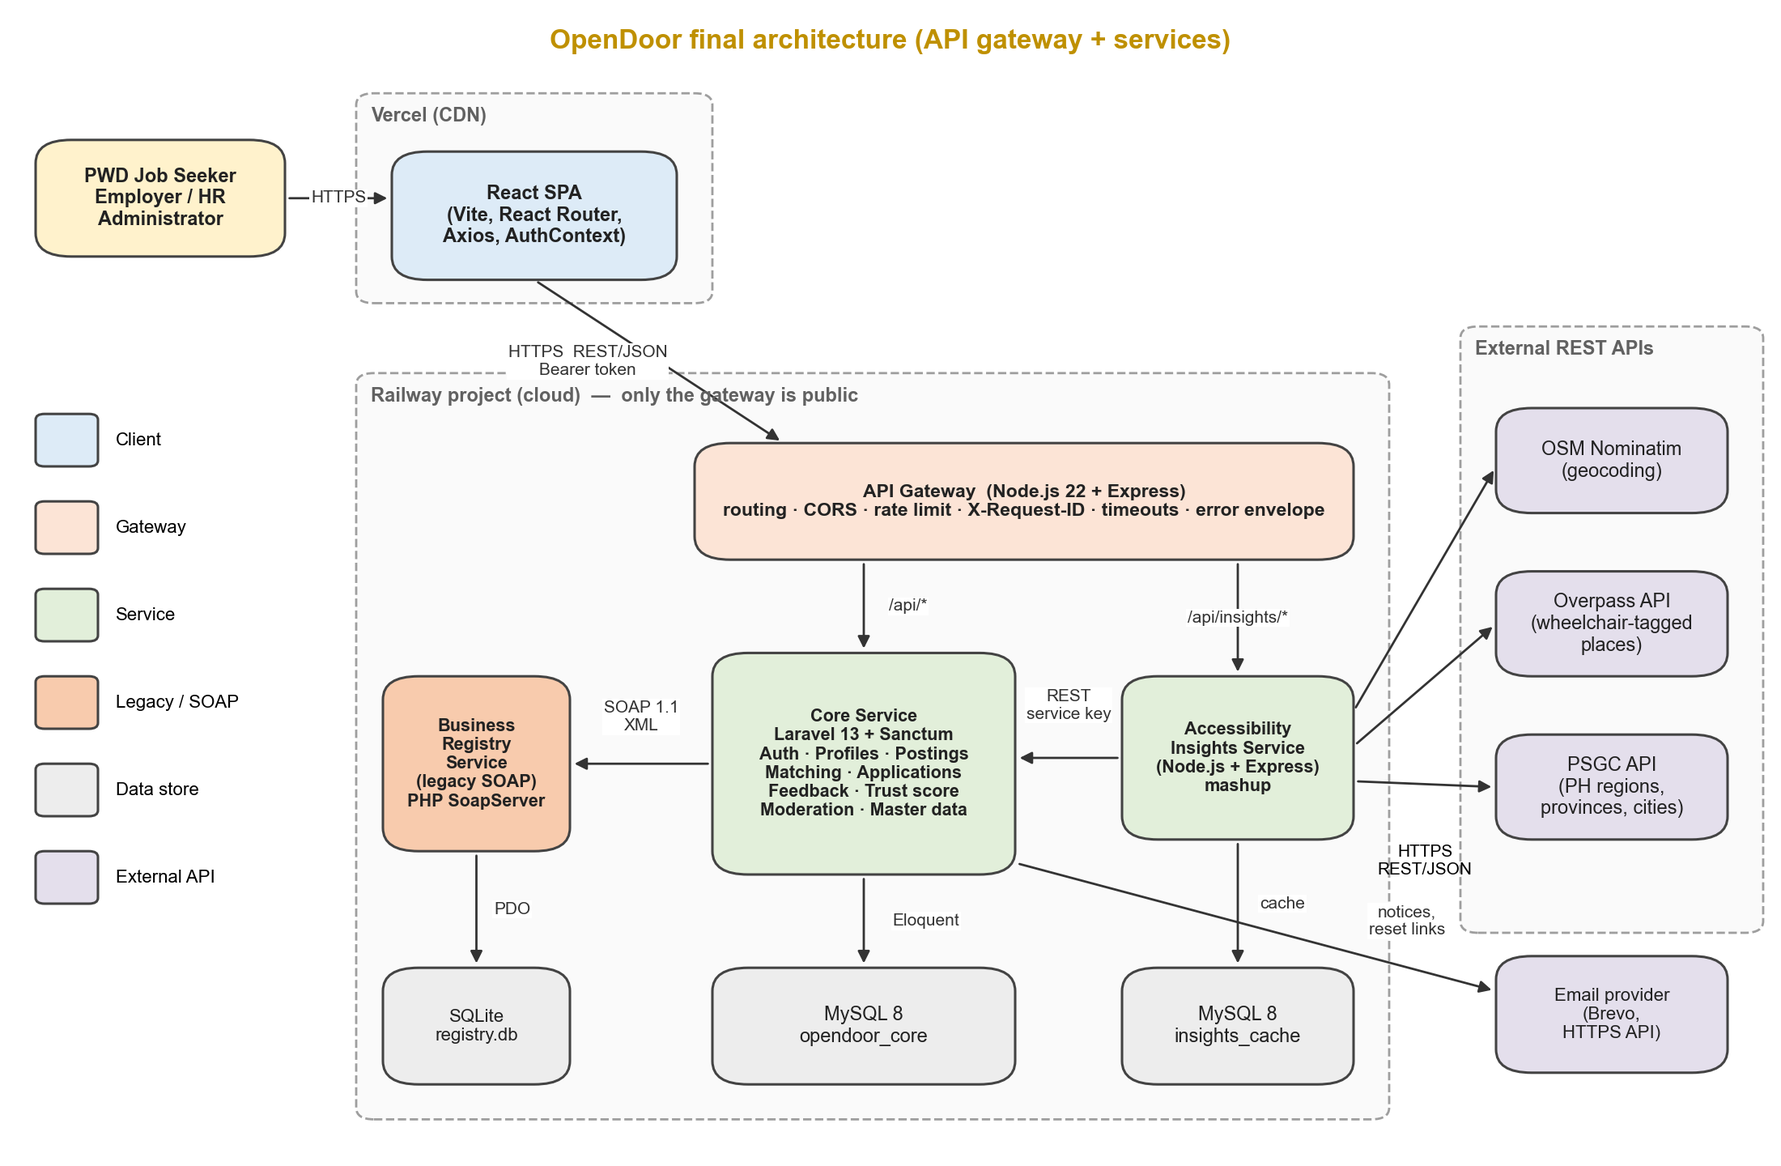
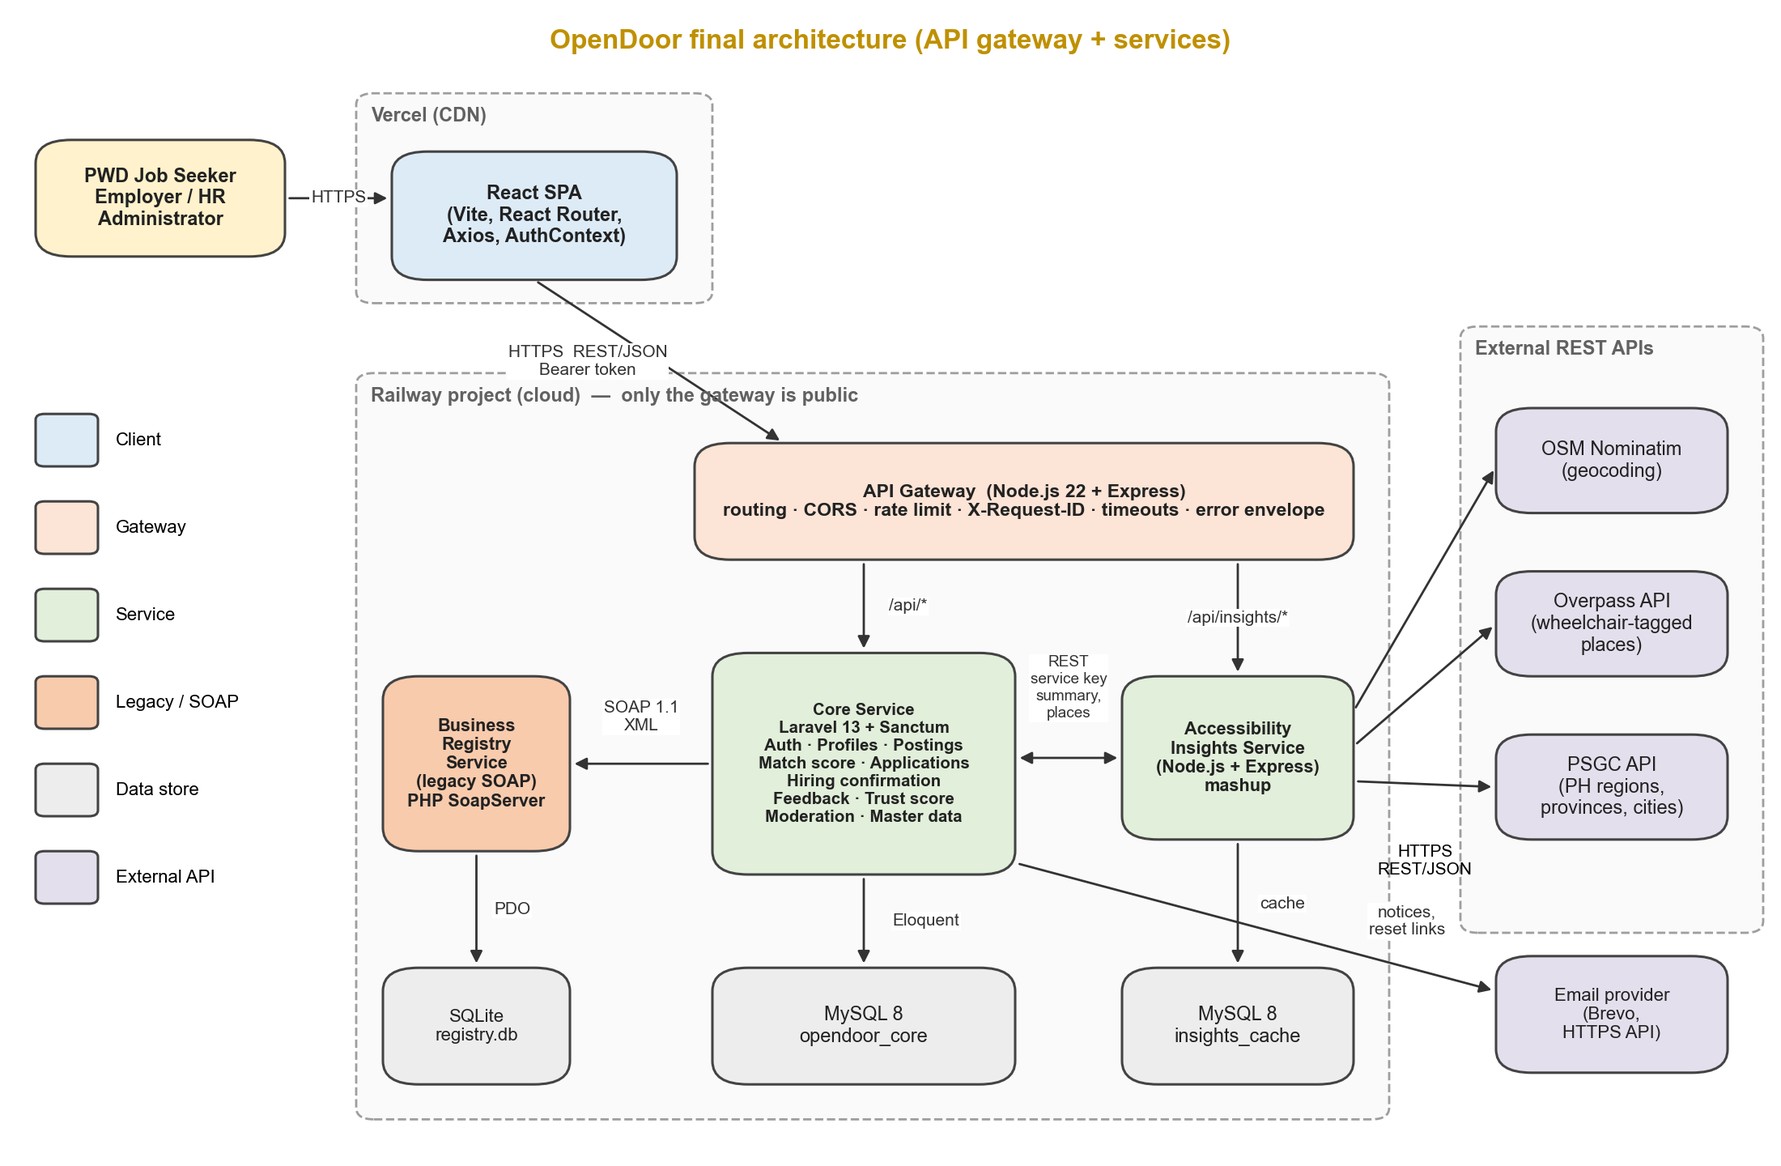
wip(sia): diagrams for the match score, hiring confirmation and the new tables
fig2: Core ↔ Insights both ways (summary, places); fig3: match score and the profile and
résumé checks on apply; new fig7: hire reported and confirmed, day-30 rating and trust score;
fig6 ERD: skills, hiring_reports, hiring_report_events and the new profile, posting and
application columns. Sequence notes move left of the lifeline when they would not fit.

Changed region(s): [[0.4327, 0.5938, 0.5564, 0.7188], [0.5873, 0.5625, 0.6182, 0.625]]

diff --git a/docs/diagrams/build.js b/docs/diagrams/build.js
@@ -532,7 +532,7 @@ C.push(P("A second transformation happens inside the Core Service: the **matchin
 C.push(H1("5. Integration Flow"));
 C.push(H2("5.1 Core Transaction Sequence"));
 C.push(...fig("fig3_sequence_match_apply.png", 2200, 1520, "Sequence – a candidate opens a matched job, receives the Accessibility Snapshot and applies"));
-C.push(...fig("fig7_sequence_hire_feedback.png", 2200, 1640, "Sequence – the employer reports a hire, the candidate confirms it, and from day 30 after the start date the candidate's ratings update the trust score"));
+C.push(...fig("fig7_sequence_hire_feedback.png", 2200, 1639, "Sequence – the employer reports a hire, the candidate confirms it, and from day 30 after the start date the candidate's ratings update the trust score"));
 C.push(...fig("fig4_sequence_verify.png", 2200, 1240, "Sequence – an administrator verifies an employer through the legacy SOAP Business Registry"));
 C.push(H2("5.2 Service-to-Service Integrations"));
 C.push(...table(["Source", "Destination", "Trigger / Endpoint", "Data Exchanged", "Expected Result"], [
@@ -1126,7 +1126,7 @@ C.push(...table(["Table", "Key Fields", "Expiry / Notes"], [
   ["registrations (registry.db)", "registration_number (PK), registry_type, registered_name, status, date_registered", "Simulated DTI/SEC records seeded by `seed.php`: the two demo employers and three other businesses (ACTIVE), two EXPIRED and two CANCELLED samples"],
 ], [2300, 4900, 2880], { size: 16 }));
 C.push(P("**Entity-relationship diagram** of the Core Service database, drawn from the Laravel migrations in `services/core-api/database/migrations` (Laravel's own token, queue, cache and session tables are left out). Further screens of every role are in the separate UI reference (`docs/ui-reference/OpenDoor-UI-Reference.pdf`)."));
-C.push(...fig("fig6_erd.png", 1700, 1840, "Entity-relationship diagram of the Core Service database (MySQL opendoor_core)"));
+C.push(...fig("fig6_erd.png", 1700, 1964, "Entity-relationship diagram of the Core Service database (MySQL opendoor_core)"));
 
 // =====================================================================
 const doc = new Document({

diff --git a/docs/diagrams/diagrams.py b/docs/diagrams/diagrams.py
@@ -96,7 +96,7 @@ zone(ax, 0.20, 0.04, 0.58, 0.64, "Railway project (cloud)  —  only the gateway
 box(ax, 0.39, 0.52, 0.37, 0.10, "API Gateway  (Node.js 22 + Express)\nrouting · CORS · rate limit · X-Request-ID · timeouts · error envelope", C["gw"], 8.3, True)
 arrow(ax, (0.30, 0.76), (0.44, 0.62), "HTTPS  REST/JSON\nBearer token", off=(-0.04, 0.0))
 box(ax, 0.215, 0.27, 0.105, 0.15, "Business\nRegistry\nService\n(legacy SOAP)\nPHP SoapServer", C["legacy"], 7.8, True)
-box(ax, 0.40, 0.25, 0.17, 0.19, "Core Service\nLaravel 13 + Sanctum\nAuth · Profiles · Postings\nMatching · Applications\nFeedback · Trust score\nModeration · Master data", C["svc"], 7.8, True)
+box(ax, 0.40, 0.25, 0.17, 0.19, "Core Service\nLaravel 13 + Sanctum\nAuth · Profiles · Postings\nMatch score · Applications\nHiring confirmation\nFeedback · Trust score\nModeration · Master data", C["svc"], 7.4, True)
 box(ax, 0.63, 0.28, 0.13, 0.14, "Accessibility\nInsights Service\n(Node.js + Express)\nmashup", C["svc"], 7.8, True)
 box(ax, 0.215, 0.07, 0.105, 0.10, "SQLite\nregistry.db", C["db"], 8)
 box(ax, 0.40, 0.07, 0.17, 0.10, "MySQL 8\nopendoor_core", C["db"], 8.5)
@@ -104,7 +104,7 @@ box(ax, 0.63, 0.07, 0.13, 0.10, "MySQL 8\ninsights_cache", C["db"], 8.5)
 arrow(ax, (0.485, 0.52), (0.485, 0.44), "/api/*", off=(0.025, 0))
 arrow(ax, (0.695, 0.52), (0.695, 0.42), "/api/insights/*", off=(0.0, 0.0))
 arrow(ax, (0.40, 0.345), (0.32, 0.345), "SOAP 1.1\nXML", off=(0.0, 0.04))
-arrow(ax, (0.63, 0.35), (0.57, 0.35), "REST\nservice key", off=(0.0, 0.045))
+arrow(ax, (0.63, 0.35), (0.57, 0.35), "REST\nservice key\nsummary,\nplaces", both=True, fs=6.8, off=(0.0, 0.06))
 arrow(ax, (0.2675, 0.27), (0.2675, 0.17), "PDO", off=(0.02, 0))
 arrow(ax, (0.485, 0.25), (0.485, 0.17), "Eloquent", off=(0.035, 0))
 arrow(ax, (0.695, 0.28), (0.695, 0.17), "cache", off=(0.025, 0))
@@ -140,8 +140,11 @@ def sequence(name, title, parts, msgs, w=11, h=7.0):
     for i, (a, b, text, kind) in enumerate(msgs, 1):
         if a == b:
             x = xs[a]
-            ax.text(x + 0.008, y, f"{i}. {text}", fontsize=7.4, va="center", ha="left",
-                    bbox=dict(fc="#FFFDE7", ec="#BDBDBD", lw=0.6, pad=2))
+            label = f"{i}. {text}"
+            # A note that would run off the right edge goes on the left of the lifeline instead.
+            right = x + 0.008 + len(label) * 0.0056 * 11 / w < 0.99
+            ax.text(x + 0.008 if right else x - 0.008, y, label, fontsize=7.4, va="center",
+                    ha="left" if right else "right", bbox=dict(fc="#FFFDE7", ec="#BDBDBD", lw=0.6, pad=2))
         else:
             ls = "--" if kind == "r" else "-"
             col = "#C0392B" if kind == "e" else "#333333"
@@ -158,10 +161,10 @@ sequence("fig3_sequence_match_apply.png",
          [("Candidate\n(React SPA)", "client"), ("API Gateway", "gw"), ("Core Service\n(Laravel)", "svc"),
           ("Insights Service", "svc"), ("Nominatim /\nOverpass", "ext")],
          [
-             (0, 1, "GET /api/job-postings/42?match=1  (Bearer token)", "c"),
+             (0, 1, "GET /api/job-postings/42  (Bearer token)", "c"),
              (1, 2, "forward + X-Request-ID", "c"),
-             (2, 2, "Sanctum auth, Policy, count needs met", "c"),
-             (2, 1, "200 posting + match {met:4,total:5,missing} + trust_score", "r"),
+             (2, 2, "Sanctum auth, Policy; match score: skills, location, qualifications, preferences, needs", "c"),
+             (2, 1, "200 posting + match {score:74, label, met:4, total:5, missing} + trust_score", "r"),
              (1, 0, "200 JSON", "r"),
              (0, 1, "GET /api/insights/job-postings/42", "c"),
              (1, 3, "forward + X-Request-ID", "c"),
@@ -174,8 +177,8 @@ sequence("fig3_sequence_match_apply.png",
              (1, 0, "200 JSON (rendered on job details)", "r"),
              (0, 1, "POST /api/job-postings/42/applications {cover_note, interview_request}", "c"),
              (1, 2, "forward", "c"),
-             (2, 2, "validate, unique check, status=pending, notify employer", "c"),
-             (2, 1, "201 application  |  409 ALREADY_APPLIED  |  422 POSTING_CLOSED", "r"),
+             (2, 2, "profile complete + résumé on file, unique check, status=pending, notify employer", "c"),
+             (2, 1, "201 application  |  409 ALREADY_APPLIED  |  422 PROFILE_INCOMPLETE / RESUME_REQUIRED / POSTING_CLOSED", "r"),
              (1, 0, "201 / 4xx error envelope", "r"),
          ], h=7.6)
 
@@ -198,6 +201,29 @@ sequence("fig4_sequence_verify.png",
              (2, 4, "set verified_at, notify employer", "c"),
              (2, 0, "200 Verified badge active   |   SOAP Fault / timeout -> 502 REGISTRY_UNAVAILABLE", "e"),
          ], h=6.2)
+
+sequence("fig7_sequence_hire_feedback.png",
+         "Verification: a hire is confirmed by both sides, and from day 30 the ratings update the trust score",
+         [("Candidate\n(React SPA)", "client"), ("Employer\n(React SPA)", "client"), ("API Gateway", "gw"),
+          ("Core Service\n(Laravel)", "svc"), ("MySQL\nopendoor_core", "db")],
+         [
+             (1, 2, "POST /api/applications/318/hiring-reports {start_date:'2026-10-30'}", "c"),
+             (2, 3, "forward + X-Request-ID", "c"),
+             (3, 3, "Policy: employer of the posting; stage in progress; no open report", "c"),
+             (3, 4, "hiring_report (pending) + event 'reported'; notice to the candidate", "c"),
+             (3, 1, "201 application (report waiting for the candidate)", "r"),
+             (0, 2, "POST …/hiring-reports/12/response {answer:'confirm'}", "c"),
+             (2, 3, "forward + X-Request-ID", "c"),
+             (3, 3, "only the other party; row lock; status=hired, hired_at, hire_start_date", "c"),
+             (3, 4, "save; record the posting's accommodations for the rating form", "c"),
+             (3, 0, "200 application {status:'hired', feedback_opens_on:'2026-11-29'}", "r"),
+             (3, 3, "day 30 after the start date, 08:00: feedback:remind -> feedback_reminder notice", "c"),
+             (0, 2, "POST /api/applications/318/feedback {items:[{accommodation_id, rating}]}", "c"),
+             (2, 3, "forward + X-Request-ID", "c"),
+             (3, 3, "hired? day >= start + 30 (else 422 FEEDBACK_NOT_OPEN)? once (else 409)?", "c"),
+             (3, 4, "feedback + items; observer recalculates trust_score, feedback_count", "c"),
+             (3, 0, "201 {items_rated}  –  score published from 3 responses", "r"),
+         ], h=8.2)
 
 # ---------------- deployment ----------------
 fig, ax = canvas(11, 6.4)
@@ -241,7 +267,7 @@ save(fig, "fig5_deployment.png")
 
 # ---------------- ERD: Core Service (opendoor_core) ----------------
 # Tables and keys as in services/core-api/database/migrations. Pivot tables have a lighter title bar.
-fig, ax = canvas(8.5, 10)
+fig, ax = canvas(8.5, 11)
 ax.text(0.5, 0.985, "Core Service data model (MySQL opendoor_core)", ha="center", va="top",
         fontsize=12, fontweight="bold", color=GOLD)
 COLS, BW, LINE, HEAD = [0.02, 0.27, 0.52, 0.77], 0.21, 0.0128, 0.021
@@ -279,71 +305,94 @@ def rel(points, a, b):
                 ha="center", va="center", fontsize=7.5, fontweight="bold", color="#333333")
 
 
-table("notifications", 0, 0.93, ["id PK (UUIDv7)", "type", "notifiable_id FK (+ type)", "data (message, url, ids)", "read_at, created_at"])
-table("users", 1, 0.93, ["id PK", "name", "email (unique)", "password (bcrypt)", "role", "is_active", "consented_at",
+table("notifications", 0, 0.95, ["id PK (UUIDv7)", "type", "notifiable_id FK (+ type)", "data (message, url, ids)", "read_at, created_at"])
+table("users", 1, 0.95, ["id PK", "name", "email (unique)", "password (bcrypt)", "role", "is_active", "consented_at",
                          "display_prefs (JSON)", "email_notifications",
                          "onboarding_tour_done", "onboarding_checklist_hidden"])
-table("employers", 2, 0.93, ["id PK", "user_id FK (unique)", "company_name", "business_reg_no, registry_type",
+table("employers", 2, 0.95, ["id PK", "user_id FK (unique)", "company_name", "business_reg_no, registry_type",
                              "industry, address", "location_psgc, location_label", "description, logo_path",
                              "verified_at", "verification_rejected_reason", "trust_score, feedback_count"])
-table("registry_checks", 3, 0.93, ["id PK", "employer_id FK", "checked_by FK → users", "business_reg_no, registry_type",
+table("registry_checks", 3, 0.95, ["id PK", "employer_id FK", "checked_by FK → users", "business_reg_no, registry_type",
                                    "status", "registered_name", "name_match_score", "raw_response (XML)", "checked_at"])
-table("candidate_profiles", 0, 0.72, ["id PK", "user_id FK (unique)", "headline, skills (JSON)", "experience",
-                                      "location_psgc, location_label", "disability_type (optional)", "show_disability",
-                                      "resume_path"])
-table("saved_jobs", 1, 0.72, ["candidate_profile_id PK FK", "job_posting_id PK FK"], pivot=True)
-table("job_postings", 2, 0.72, ["id PK", "employer_id FK", "category_id FK", "title, description", "address",
-                                "location_psgc, location_label", "employment_type, work_setup", "interview_format",
-                                "status, is_approved", "closes_at", "rejection_reason", "deleted_at (soft delete)"])
-table("categories", 3, 0.72, ["id PK", "name"])
-table("candidate_accommodation", 0, 0.47, ["candidate_profile_id PK FK", "accommodation_id PK FK"], pivot=True)
-table("applications", 1, 0.47, ["id PK", "job_posting_id FK", "candidate_profile_id FK", "UNIQUE (posting, candidate)",
-                                "status", "cover_note, interview_request", "reviewed_at, hired_at", "hire_confirmed_by",
-                                "feedback_reminded_at"])
-table("reports", 2, 0.47, ["id PK", "reporter_id FK → users", "job_posting_id FK", "reason", "status, note",
+table("candidate_profiles", 0, 0.75, ["id PK", "user_id FK (unique)", "headline, skills (JSON names)",
+                                      "experience, experience_years", "education_level",
+                                      "preferred_work_setups (JSON)", "preferred_employment_types (JSON)",
+                                      "location_psgc, location_label", "location_lat/lon, province_psgc",
+                                      "disability_type, show_disability", "resume_path"])
+table("saved_jobs", 1, 0.75, ["candidate_profile_id PK FK", "job_posting_id PK FK"], pivot=True)
+table("job_postings", 2, 0.75, ["id PK", "employer_id FK", "category_id FK", "title, description", "responsibilities",
+                                "skills (JSON names), qualifications", "education_level, experience_years",
+                                "salary_min/max, salary_period", "benefits, schedule", "application_requirements",
+                                "address, location_psgc/label", "location_lat/lon, province_psgc",
+                                "employment_type, work_setup", "interview_format, closes_at", "status, is_approved",
+                                "rejection_reason, deleted_at"])
+table("categories", 3, 0.75, ["id PK", "name"])
+table("skills", 3, 0.67, ["id PK", "name (unique)", "aliases (JSON)"])
+table("job_posting_accommodation", 3, 0.575, ["job_posting_id PK FK", "accommodation_id PK FK", "note"], pivot=True)
+table("candidate_accommodation", 0, 0.555, ["candidate_profile_id PK FK", "accommodation_id PK FK"], pivot=True)
+table("applications", 1, 0.665, ["id PK", "job_posting_id FK", "candidate_profile_id FK", "UNIQUE (posting, candidate)",
+                                 "status", "cover_note, interview_request", "reviewed_at, shortlisted_at",
+                                 "contacted_at, hired_at", "hire_start_date", "feedback_reminded_at"])
+table("hiring_reports", 1, 0.485, ["id PK", "application_id FK", "reported_by", "reporter_id FK → users", "start_date",
+                                   "status", "responded_at"])
+table("hiring_report_events", 1, 0.345, ["id PK", "hiring_report_id FK", "actor_role", "actor_id FK → users", "action",
+                                         "start_date", "created_at"])
+table("reports", 2, 0.49, ["id PK", "reporter_id FK → users", "job_posting_id FK", "reason", "status, note",
                            "resolved_by FK → users", "resolved_at"])
-table("job_posting_accommodation", 3, 0.47, ["job_posting_id PK FK", "accommodation_id PK FK", "note"], pivot=True)
-table("accommodations", 0, 0.28, ["id PK", "name", "group", "description", "is_retired"])
-table("application_accommodation", 1, 0.28, ["application_id PK FK", "accommodation_id PK FK"], pivot=True)
-table("feedback", 2, 0.28, ["id PK", "application_id FK (unique)", "comments", "is_hidden"])
-table("feedback_items", 3, 0.28, ["id PK", "feedback_id FK", "accommodation_id FK", "rating"])
+table("accommodations", 0, 0.475, ["id PK", "name", "group", "description", "is_retired"])
+table("application_accommodation", 0, 0.35, ["application_id PK FK", "accommodation_id PK FK"], pivot=True)
+table("feedback", 2, 0.345, ["id PK", "application_id FK (unique)", "comments", "is_hidden"])
+table("feedback_items", 3, 0.345, ["id PK", "feedback_id FK", "accommodation_id FK", "rating"])
 
+
+def hline(a, b, y, a_side="right", b_side="left"):
+    """Horizontal relationship between two tables at height y (both must span y)."""
+    xa = T[a][0] + (T[a][2] if a_side == "right" else 0)
+    xb = T[b][0] + (T[b][2] if b_side == "right" else 0)
+    return [(xa, y), (xb, y)]
+
+
+GAP12 = (COLS[1] + BW + COLS[2]) / 2  # between columns 1 and 2
+GAP01 = (COLS[0] + BW + COLS[1]) / 2  # between columns 0 and 1
 # users
-rel([side("users", "left", 0.25), side("notifications", "right", 0.25)], "1", "N")
-rel([side("users", "right", 0.2), (COLS[2], side("users", "right", 0.2)[1])], "1", "1")
+rel(hline("users", "notifications", 0.905, "left", "right"), "1", "N")
+rel(hline("users", "employers", 0.915), "1", "1")
 rel([side("users", "bottom", 0.15), side("candidate_profiles", "top", 0.8)], "1", "1")
-rel([side("users", "top", 0.6), (side("users", "top", 0.6)[0], 0.952), (side("registry_checks", "top", 0.5)[0], 0.952),
+rel([side("users", "top", 0.6), (side("users", "top", 0.6)[0], 0.968), (side("registry_checks", "top", 0.5)[0], 0.968),
      side("registry_checks", "top", 0.5)], "1", "N")
-users_bottom = side("users", "bottom", 0.9)
-rel([users_bottom, (users_bottom[0], 0.745), (0.50, 0.745), (0.50, side("reports", "left", 0.3)[1]),
-     side("reports", "left", 0.3)], "1", "N")
 # employers, postings
 rel([side("employers", "right", 0.3), side("registry_checks", "left", 0.3)], "1", "N")
 rel([side("employers", "bottom", 0.5), side("job_postings", "top", 0.5)], "1", "N")
-rel([side("categories", "left", 0.5), (COLS[2] + BW, side("categories", "left", 0.5)[1])], "1", "N")
+rel(hline("categories", "job_postings", 0.722, "left", "right"), "1", "N")
+rel(hline("job_postings", "saved_jobs", 0.722, "left", "right"), "1", "N")
+rel(hline("job_postings", "applications", 0.60, "left", "right"), "1", "N")
 rel([side("job_postings", "bottom", 0.5), side("reports", "top", 0.5)], "1", "N")
-rel([side("job_postings", "bottom", 0.9), side("job_posting_accommodation", "top", 0.3)], "1", "N")
-rel([side("job_postings", "left", 0.15), (COLS[1] + BW, side("job_postings", "left", 0.15)[1])], "1", "N")
-rel([side("job_postings", "bottom", 0.08), side("applications", "top", 0.9)], "1", "N")
+rel(hline("job_postings", "job_posting_accommodation", 0.555), "1", "N")
 # candidates
-rel([side("candidate_profiles", "right", 0.15), (COLS[1], side("candidate_profiles", "right", 0.15)[1])], "1", "N")
+rel(hline("candidate_profiles", "saved_jobs", 0.722), "1", "N")
+rel(hline("candidate_profiles", "applications", 0.62), "1", "N")
 rel([side("candidate_profiles", "bottom", 0.5), side("candidate_accommodation", "top", 0.5)], "1", "N")
-rel([side("candidate_profiles", "bottom", 0.92), side("applications", "top", 0.1)], "1", "N")
-# applications, feedback
-rel([side("applications", "bottom", 0.5), side("application_accommodation", "top", 0.5)], "1", "N")
-rel([side("applications", "bottom", 0.92), side("feedback", "top", 0.1)], "1", "1")
-rel([side("feedback", "right", 0.4), side("feedback_items", "left", 0.4)], "1", "N")
+# applications, hiring reports, feedback
+rel([side("applications", "bottom", 0.5), side("hiring_reports", "top", 0.5)], "1", "N")
+rel([side("hiring_reports", "bottom", 0.5), side("hiring_report_events", "top", 0.5)], "1", "N")
+app_left = (COLS[1], 0.52)
+rel([app_left, (GAP01, 0.52), (GAP01, 0.322), (COLS[0] + BW, 0.322)], "1", "N")
+app_right = (COLS[1] + BW, 0.525)
+rel([app_right, (GAP12, 0.525), (GAP12, 0.305), (COLS[2], 0.305)], "1", "1")
+rel(hline("feedback", "feedback_items", 0.305), "1", "N")
 # accommodations
 rel([side("accommodations", "top", 0.5), side("candidate_accommodation", "bottom", 0.5)], "1", "N")
-rel([side("accommodations", "right", 0.3), (COLS[1], side("accommodations", "right", 0.3)[1])], "1", "N")
-acc_bottom = side("accommodations", "bottom", 0.35)
-jpa_left = side("job_posting_accommodation", "left", 0.6)
-rel([acc_bottom, (acc_bottom[0], 0.15), (0.75, 0.15), (0.75, jpa_left[1]), jpa_left], "1", "N")
-acc_bottom2 = side("accommodations", "bottom", 0.7)
-rel([acc_bottom2, (acc_bottom2[0], 0.165), (side("feedback_items", "bottom", 0.5)[0], 0.165),
-     side("feedback_items", "bottom", 0.5)], "1", "N")
-ax.text(0.5, 0.11, "PK primary key · FK foreign key · 1 / N cardinality at each end · grey title = pivot table\n"
+rel([side("accommodations", "bottom", 0.5), side("application_accommodation", "top", 0.5)], "1", "N")
+acc_left_a = (COLS[0], 0.395)
+fi_bottom = side("feedback_items", "bottom", 0.4)
+rel([acc_left_a, (0.010, 0.395), (0.010, 0.205), (fi_bottom[0], 0.205), fi_bottom], "1", "N")
+acc_left_b = (COLS[0], 0.44)
+jpa_right = (COLS[3] + BW, 0.53)
+rel([acc_left_b, (0.003, 0.44), (0.003, 0.19), (0.993, 0.19), (0.993, 0.53), jpa_right], "1", "N")
+ax.text(0.5, 0.135, "PK primary key · FK foreign key · 1 / N cardinality at each end · grey title = pivot table · "
+        "skills are stored by name (JSON), so the skills table has no foreign keys\n"
+        "Lines for the FKs marked \"→ users\" (reporters and actors) are left out for readability. "
         "Not shown: Laravel tables personal_access_tokens, password_reset_tokens, jobs / failed_jobs, cache, sessions",
-        ha="center", va="center", fontsize=7.5, color="#555555")
+        ha="center", va="center", fontsize=7, color="#555555")
 save(fig, "fig6_erd.png", tight=True)
 print("done")
